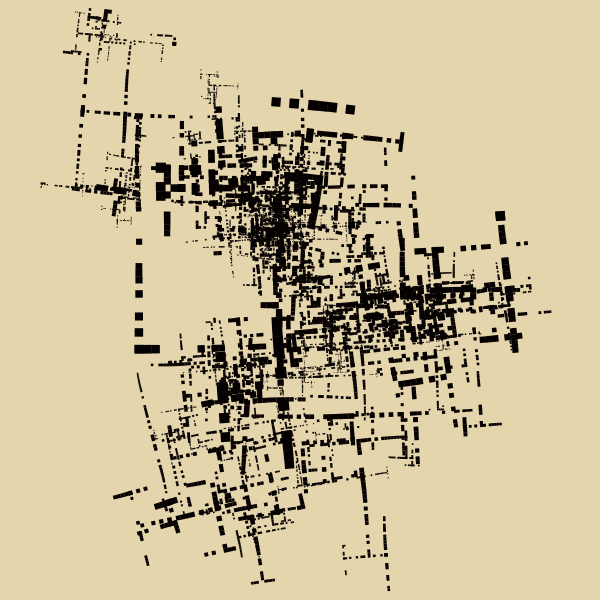
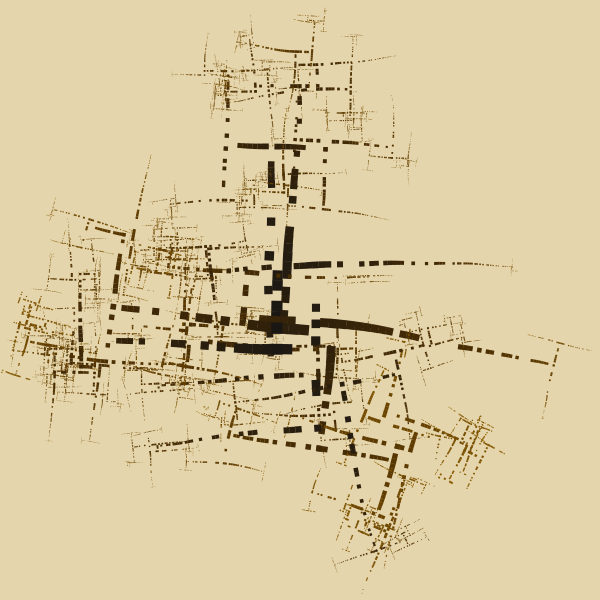
track colors internally in hsv

diff --git a/contextfree/core.py b/contextfree/core.py
@@ -28,6 +28,7 @@ def _init_state():
     global surface
     surface = cairo.RecordingSurface(cairo.CONTENT_COLOR_ALPHA, None)
     _state["ctx"] = cairo.Context(surface)
+    _state["color"] = (0, 0, 0, 1)
     _state["depth"] = 0
     _state["cnt_elements"] = 0
 
@@ -180,7 +181,10 @@ def init(canvas_size=(512, 512), max_depth=12, face_color=None, background_color
     WIDTH, HEIGHT = canvas_size
 
     if face_color is not None:
-        _state["ctx"].set_source_rgb(* htmlcolor_to_rgb(face_color))
+        r, g, b = htmlcolor_to_rgb(face_color)
+        _state["ctx"].set_source_rgb(r, g, b)
+        hue, saturation, brightness = colorsys.rgb_to_hsv(r, g, b)
+        _state["color"] = (hue, saturation, brightness, 1)
     logger.debug("Init done")
 
 
@@ -222,27 +226,30 @@ class transform:
         ctx.scale(self.scale_x, self.scale_y)
         if self.angle is not None:
             ctx.rotate(self.angle * math.pi / 180)
-        r, g, b, alpha = ctx.get_source().get_rgba()
-        # hue, lightness, saturation = colorsys.rgb_to_hls(r, g, b)
-        hue, saturation, brightness = colorsys.rgb_to_hsv(r, g, b)
+        # r, g, b, alpha = ctx.get_source().get_rgba()
+        # hue, saturation, brightness = colorsys.rgb_to_hsv(r, g, b)
+        hue, saturation, brightness, alpha = _state["color"]
         hue = math.modf(hue + self.hue)[0]
         brightness = adjust(brightness, self.brightness)
         saturation = adjust(saturation, self.saturation)
-        r, g, b = colorsys.hsv_to_rgb(hue, saturation, brightness)
         alpha = adjust(alpha, self.alpha)
+        r, g, b = colorsys.hsv_to_rgb(hue, saturation, brightness)
         # alpha = min((alpha * self.alpha), 255)
         rgba = [r, g, b, alpha]
         ctx.set_source_rgba(* rgba)
+        _state["color"] = (hue, saturation, brightness, alpha)
 
     def __enter__(self):
         self.matrix_old = _state["ctx"].get_matrix()
         self.source_old = _state["ctx"].get_source()
+        self.color_old = _state["color"]
         self()
         return self
 
     def __exit__(self, type, value, traceback):
         _state["ctx"].set_matrix(self.matrix_old)
         _state["ctx"].set_source(self.source_old)
+        _state["color"] = self.color_old
 
 
 class rotate(transform):

diff --git a/tests/test_main.py b/tests/test_main.py
@@ -60,7 +60,7 @@ class Tests(unittest.TestCase):
 
     def test_loop(self):
         init(background_color="#000000", face_color="#880000")
-        with transform(x=1.2, saturation=0.1, lightness=-0.2) as t:
+        with transform(x=1.2, saturation=0.1, lightness=-0.2, hue=10) as t:
             for i in range(12):
                 box()
                 t()

diff --git a/examples/serpinski/serpinski.py b/examples/serpinski/serpinski.py
@@ -9,7 +9,7 @@ def serp():
     triangle()
     with transform(angle=120, saturation=0.3, lightness=0.1, hue=3) as t:
         for _ in range(3):
-            with transform(scale_x=0.501, y=-0.5):
+            with transform(scale_x=0.5, y=-0.5):
                 serp()
             t()
         #with translate(0, -1):

diff --git a/examples/curly branches/curly_branches.py b/examples/curly branches/curly_branches.py
@@ -6,8 +6,8 @@ from contextfree import *
 @check_limits
 def branch():
     circle(1)
-    with translate(0, 1.6):
-        with color(alpha=-0.1):
+    with translate(0, 1.5):
+        with color(alpha=-0.001):
             with rotate(1):
                 with scale(0.998):
                     if coinflip(50):

diff --git a/examples/paper/paper.py b/examples/paper/paper.py
@@ -13,7 +13,7 @@ def sheet():
 @check_limits
 def pyramid():
     sheet()
-    with transform(scale_x=0.99, angle=prnd(1)):
+    with transform(scale_x=0.99, angle=1 + prnd(1)):
         with translate(rnd(0.1), rnd(0.1)):
             with color(rnd(5)):
                 pyramid()

diff --git a/examples/ancient map/map.py b/examples/ancient map/map.py
@@ -44,7 +44,7 @@ def wall():
 
 
 def main():
-    init(canvas_size=(600, 600), background_color="#e5d5ac", max_depth=120)
+    init(canvas_size=(600, 600), background_color="#e5d5ac", max_depth=122)
 
     with transform(hue=34, lightness=0.1, saturation=0.25):
         wall()
